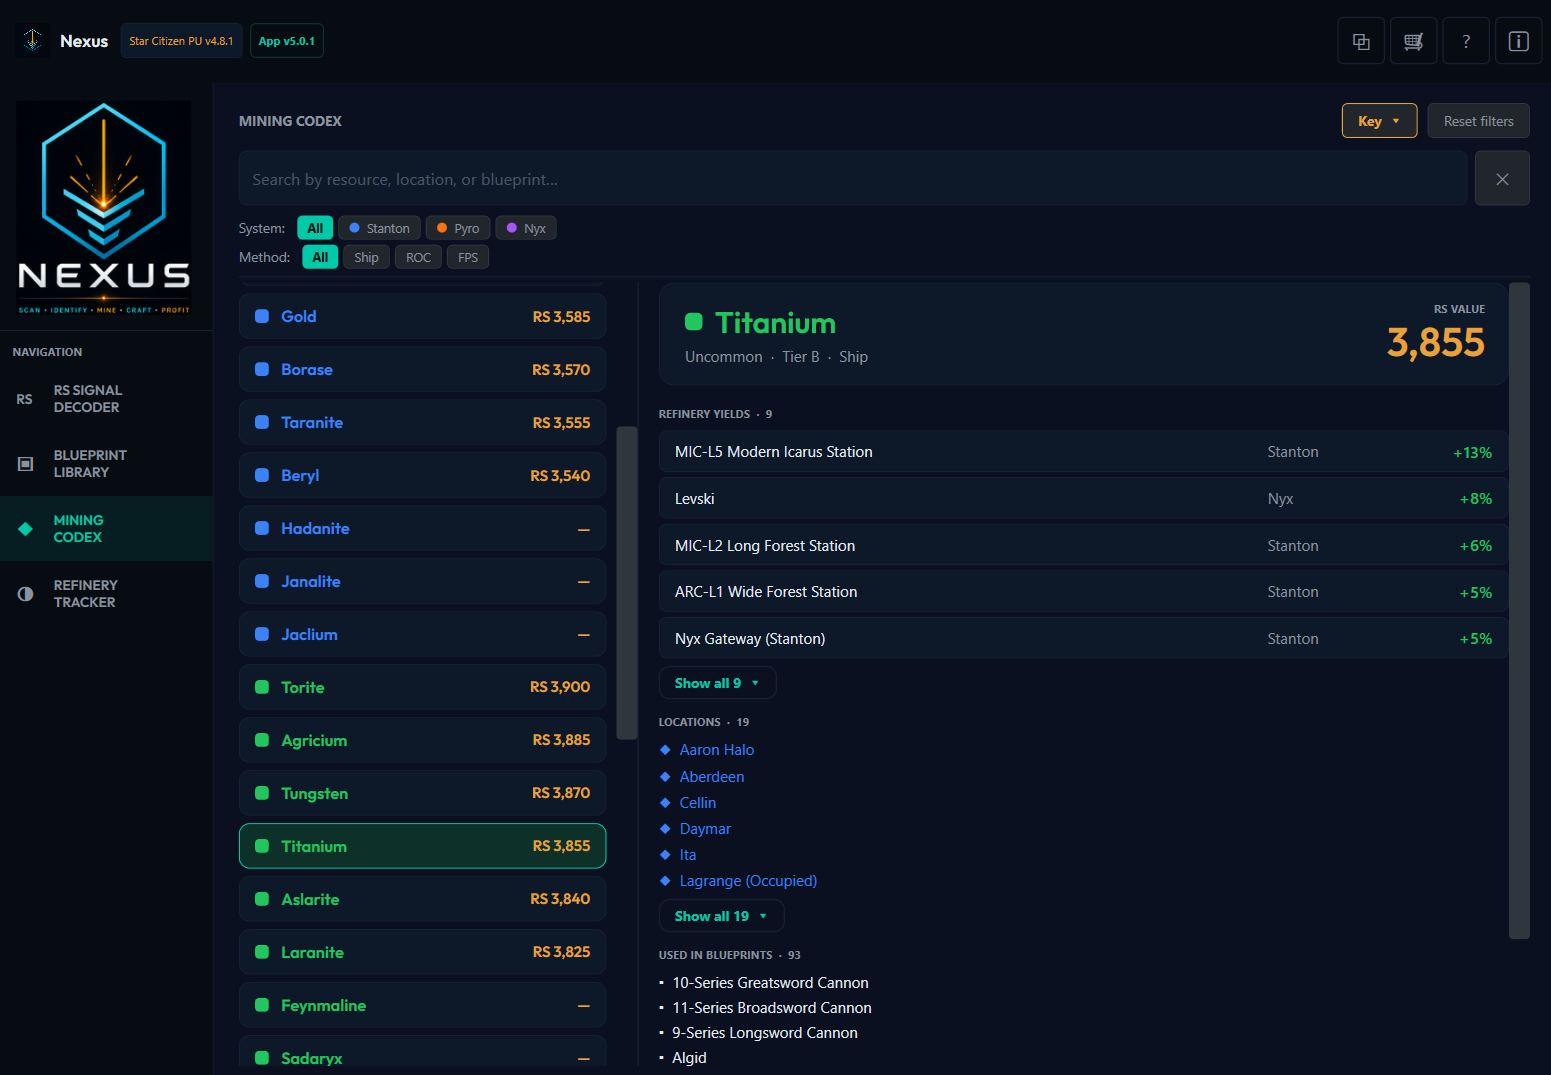
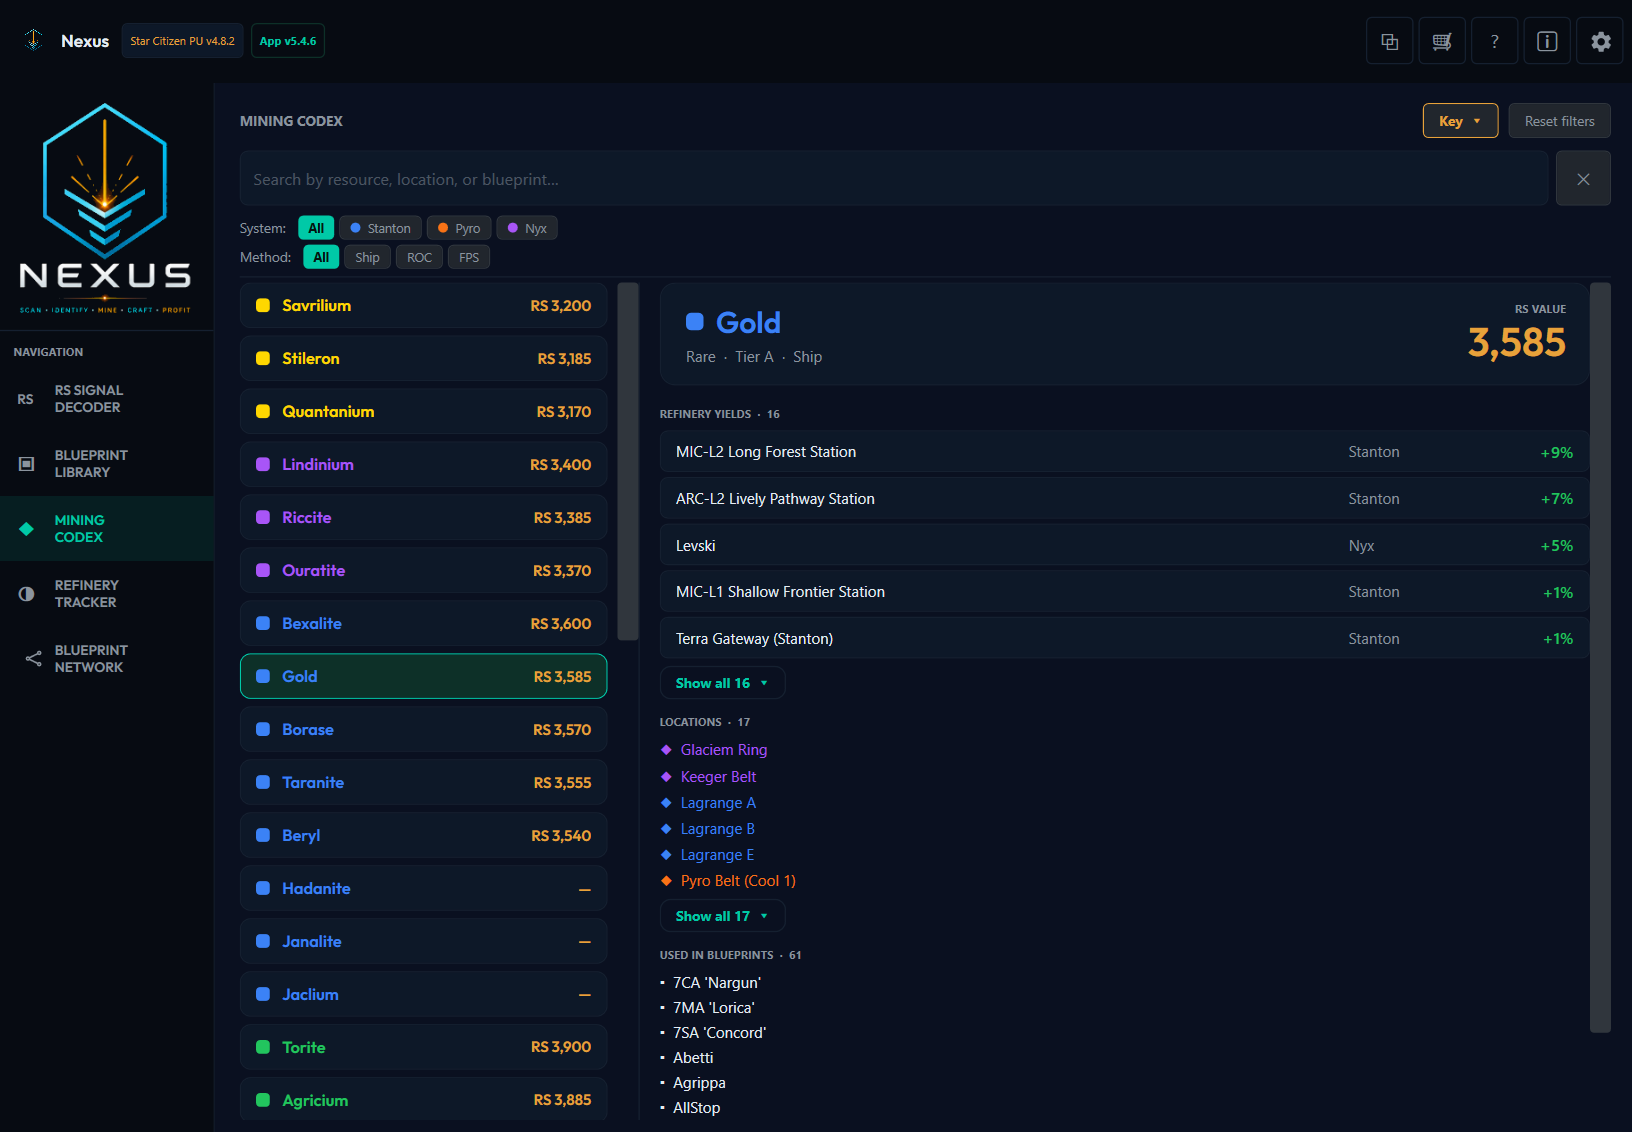
docs: refresh the README screenshots and add a Blueprint Network shot

diff --git a/README.md b/README.md
@@ -57,7 +57,12 @@ The floating overlay sits over Star Citizen and reads the RS value straight off 
 ### Blueprint Library
 Search any ship, weapon, or armor blueprint to see exactly what it takes to craft — the raw resources and quantities, where to mine them, and the missions that unlock it.
 
-[![Nexus Blueprint Library showing the P6-LR Sniper Rifle recipe, ingredients, and unlock missions](docs/screenshots/blueprint-library.png)](docs/screenshots/blueprint-library.png)
+[![Nexus Blueprint Library showing the ADP-mk4 Arms Woodland armor recipe, bill of materials, and unlock missions](docs/screenshots/blueprint-library.png)](docs/screenshots/blueprint-library.png)
+
+### Blueprint Network
+Pool your owned-blueprint library with friends or your org by trading files — then see the whole group's coverage at a glance: how many blueprints are owned between you, the gaps nobody has yet, and the ones only a single person holds (at risk if they stop playing).
+
+[![Nexus Blueprint Network showing group blueprint coverage, per-member ownership, and single-owner blueprints](docs/screenshots/blueprint-network.png)](docs/screenshots/blueprint-network.png)
 
 ### Mining Codex
 A full reference of every mineable resource — grouped by rarity, searchable, and filterable by star system (Stanton / Pyro / Nyx) and mining method (Ship / ROC / FPS).
